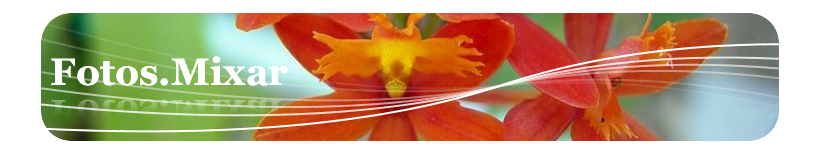
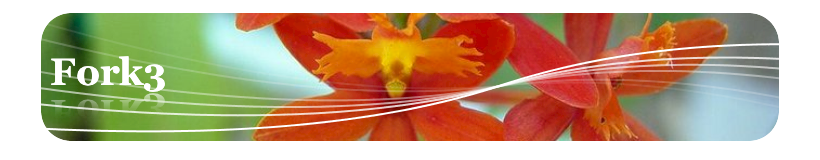
Fork3 pag

Changed region(s): [[0.122, 0.3438, 0.3659, 0.6875]]

diff --git a/fork3/style/base.css b/fork3/style/base.css
@@ -1,0 +1,116 @@
+.fixverticalalign { 
+
+  width:1px;height:88px;vertical-align:middle;
+   position:relative;
+
+} 
+
+.installbutton {
+        width:270px;
+        height:90;x
+        margin:0px;
+        padding:0px;
+        background:url(../output/installbutton.png) no-repeat 0 0;
+        text-align:center;
+}
+
+.footertable { 
+ 	width:800px;
+	margin:auto;
+} 
+
+
+html { 
+ 	font-family:georgia; 
+	font-size:100%;
+} 
+
+h1,h2,h3 { 
+ 	color:rgb(0,110,80);
+} 
+
+.dotted { 
+ 	background: url(../output/dotted.png) repeat-x 0 0;
+	margin:auto; 
+        height:6px;
+	margin-top:.2em;
+  	margin-bottom:2em;
+   
+} 
+
+            html, body {
+                        padding:0px;
+                        margin:0px;
+                }
+
+		.separator  {
+                        background: white url(../output/bgtop-shade.png) -350px -140px repeat-x;
+			width:100%;
+			height:2em;
+
+		} 
+                #bottomfooter {
+			padding-top:1em;
+                        height:170px;
+                        background:url(../output/bgbottom-shade.png) 0px 0px repeat-x;
+			width:100%;
+		}
+
+		#bottomfooter ul, #bottomfooter h3 { 
+			margin:0px;
+		} 
+
+		#bottomfooter table { 
+			width:800px;
+			margin:auto;
+		} 
+                #topheader {
+                        width:100%;
+                        margin:0px;
+                        height:160px;
+                        background:url(../output/bgtop-shade.png) -350px -60px repeat-x;
+                }
+                #header {
+                        margin:auto;
+                        background:url(../output/topbanner.png) 0 0px no-repeat;
+                        width:820px;
+                        height:190px;
+			margin-top:0;
+                }
+
+
+.t {background: url(../output/boxshade.png) 0 0 repeat-x; width: 100%; }
+.b {background: url(../output/dot.png) 0 100% repeat-x}
+.l {background: url(../output/dot.png) 0 0 repeat-y}
+.r {background: url(../output/dot.png) 100% 0 repeat-y}
+.bl {background: url(../output/q5.png) 0 100% no-repeat}
+.br {background: url(../output/q4.png) 100% 100% no-repeat}
+.tl {background: url(../output/q1.png) 0 0 no-repeat}
+.tr {background: url(../output/q3.png) 100% 0 no-repeat; padding:10px}
+
+
+ul { 
+ margin:0px;
+ padding:1em;
+} 
+
+#content { 
+ 	width:800px;
+	margin:auto;
+ 	padding:.2em;	
+} 
+
+.footercontent { 
+ 	width:800px;
+	margin:auto;
+	padding:1em;
+} 
+
+#footer { 
+ 	color:gray;
+	font-spacing:2px;
+	font-size:77%;
+	margin:auto;
+ 	width:800px;
+	margin-top:2em;
+} 

diff --git a/fork3/page.html b/fork3/page.html
@@ -1,0 +1,73 @@
+<html>
+<head>
+<link media="screen, projection" type="text/css" href="style/base.css" rel="stylesheet">
+
+</head>
+<body>
+<div id="topheader">
+<div id="header">
+</div>
+</div>
+
+<div id="content">
+
+<h2>This is Fork3</h2>
+<div style="float:right; width:200px"   class="t"><div class="b"><div class="l"><div class="r"><div class="bl"><div class="br"><div class="tl"><div class="tr">
+Welcome to Taboca Fork-3. The SVG-based, Open-source toolkit for graphics generation. 
+</div></div></div></div></div></div></div></div> 
+
+<p>
+
+Fork 3 aims to support developers to generated graphics from SVG and XML-based data-sources. The toolkit wants to evolve to something powerful and flexible that allows end-users and developers to easily drop behavior to their graphic elemnts and create user interfaces with ease. 
+
+<div class="installbutton" ><img class="fixverticalalign" src="../output/transparent.png" />Hello Graphics!</div>
+
+<h3>Project Information</h3>
+
+This page has some entry level ( and draft and early deployed ) documentation on the project. You can access the source-code at <a href="http://github.com/taboca/fork3-svg/tree/master">Fork3 Github project</a>  and please contribute to the project. If you want to compile the graphics you will need Apache Ant, Apache batik, the batik Rasterizer Ant task, and also a recent Java Development Kit.
+
+
+</p>
+
+
+
+</div>
+
+<div class="separator" ></div>
+
+<div id="bottomfooter">
+
+<table width="820" cellpadding="0" cellspacing="0">
+<tr>
+<td valign="top">
+This is Fork3
+</td>
+<td valign="top">
+<h3>
+Site info
+</h3>
+<ul>
+<li>links here...</li>
+<li>links here...</li>
+<li>links here...</li>
+<li>links here...</li>
+</ul>
+</td>
+<td valign="top">
+<h3>Site</h3>
+<ul>
+<li><a href="http://www.svgplanet.com">SvgPlanet</a>
+<li><a href="http://github.com/taboca/fork3-svg/tree/master">Fork3</a>
+
+</ul>
+</td>
+
+
+</tr>
+</table>
+
+</div>
+
+
+</body>
+</html>
